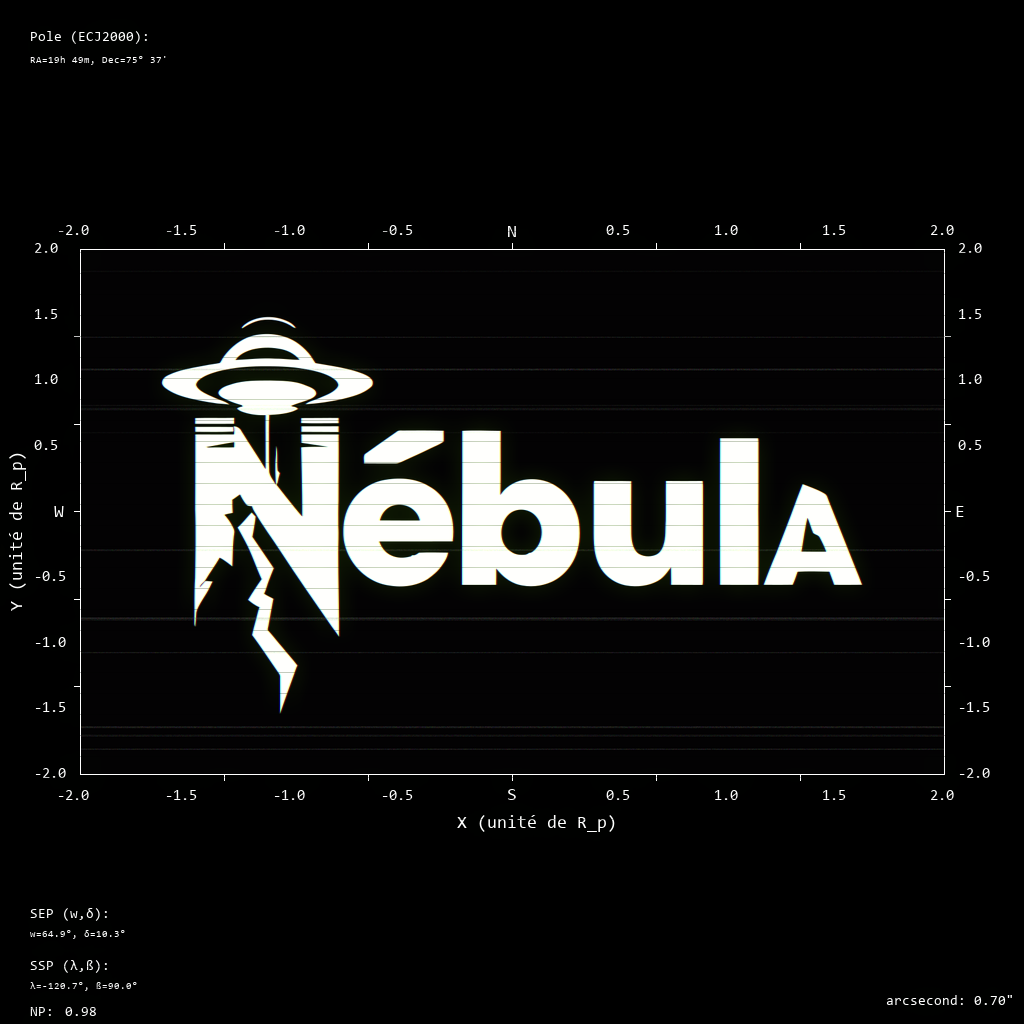
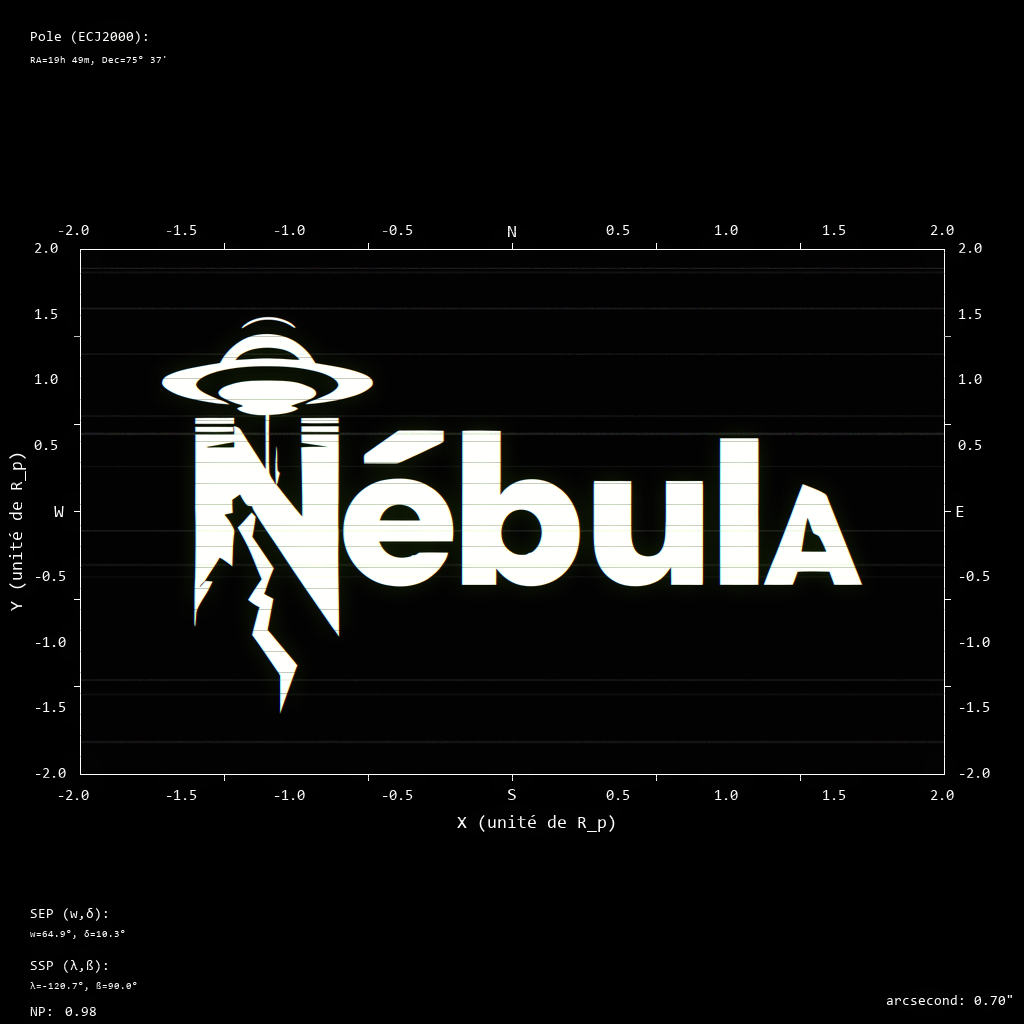
Imágenes de ejemplo para los estilos de metadatos

diff --git a/scripts/generate_previews.py b/scripts/generate_previews.py
@@ -28,9 +28,16 @@ STYLES = [
     ("custom", "Custom"),
 ]
 
+META_STYLES = [
+    ("alien_hud", "HUD Alienígena"),
+    ("minimal", "Minimal"),
+    ("scientific_hud", "HUD Científico"),
+    ("astronomical_plate", "Placa Astronómica"),
+    ("geometric", "Geométrico"),
+]
+
 engine = RenderEngine()
 engine.set_display_config("show_metadata", True)
-engine.set_display_config("metadata_style", "minimal")
 engine.set_display_config("grid_num_lines", 6)
 engine.set_display_config("font_size_main", 18)
 engine.set_display_config("font_size_small", 15)
@@ -39,9 +46,24 @@ engine.set_display_config("meta_font_size", 14)
 for style_id, style_name in STYLES:
     print(f"Rendering {style_name}...")
     engine.set_style(style_id)
+    engine.set_display_config("metadata_style", "minimal")
     try:
         result = engine.render(SUBJECT_PATH)
         filename = f"{style_id}.png"
+        filepath = os.path.join(OUTPUT_DIR, filename)
+        result.save(filepath)
+        print(f"  -> saved {filepath}")
+    except Exception as e:
+        print(f"  -> ERROR: {e}")
+
+print("---")
+for meta_id, meta_name in META_STYLES:
+    print(f"Rendering metadata style {meta_name}...")
+    engine.set_style("muted")
+    engine.set_display_config("metadata_style", meta_id)
+    try:
+        result = engine.render(SUBJECT_PATH)
+        filename = f"meta_{meta_id}.png"
         filepath = os.path.join(OUTPUT_DIR, filename)
         result.save(filepath)
         print(f"  -> saved {filepath}")

diff --git a/README.md b/README.md
@@ -354,17 +354,27 @@ Personalizado
 ### HUD Alienigena (`alien_hud`)
 > Panel HUD sci-fi con soportes de esquina, barrido de radar, barra de frecuencia, panel de datos decodificados.
 
+![HUD Alienígena](assets/examples/meta_alien_hud.png)
+
 ### Minimal (`minimal`)
 > Solo texto limpio: coordenadas polares, valores SEP/SSP/NP, etiqueta de arcosegundo.
+
+![Minimal](assets/examples/meta_minimal.png)
 
 ### HUD Cientifico (`scientific_hud`)
 > Paneles de instrumentos con recuadros, rosa de los vientos, barra de progreso NP, barra de escala.
 
+![HUD Científico](assets/examples/meta_scientific_hud.png)
+
 ### Placa Astronomica (`astronomical_plate`)
 > Look de placa fotográfica vintage con marcas fiduciales, texto grabado con sombras.
 
+![Placa Astronómica](assets/examples/meta_astronomical_plate.png)
+
 ### Geometrico (`geometric`)
 > Superposición de retícula con indicadores de dial semicirculares para SEP/SSP/NP, barra de escala con marcas.
+
+![Geométrico](assets/examples/meta_geometric.png)
 
 ---
 